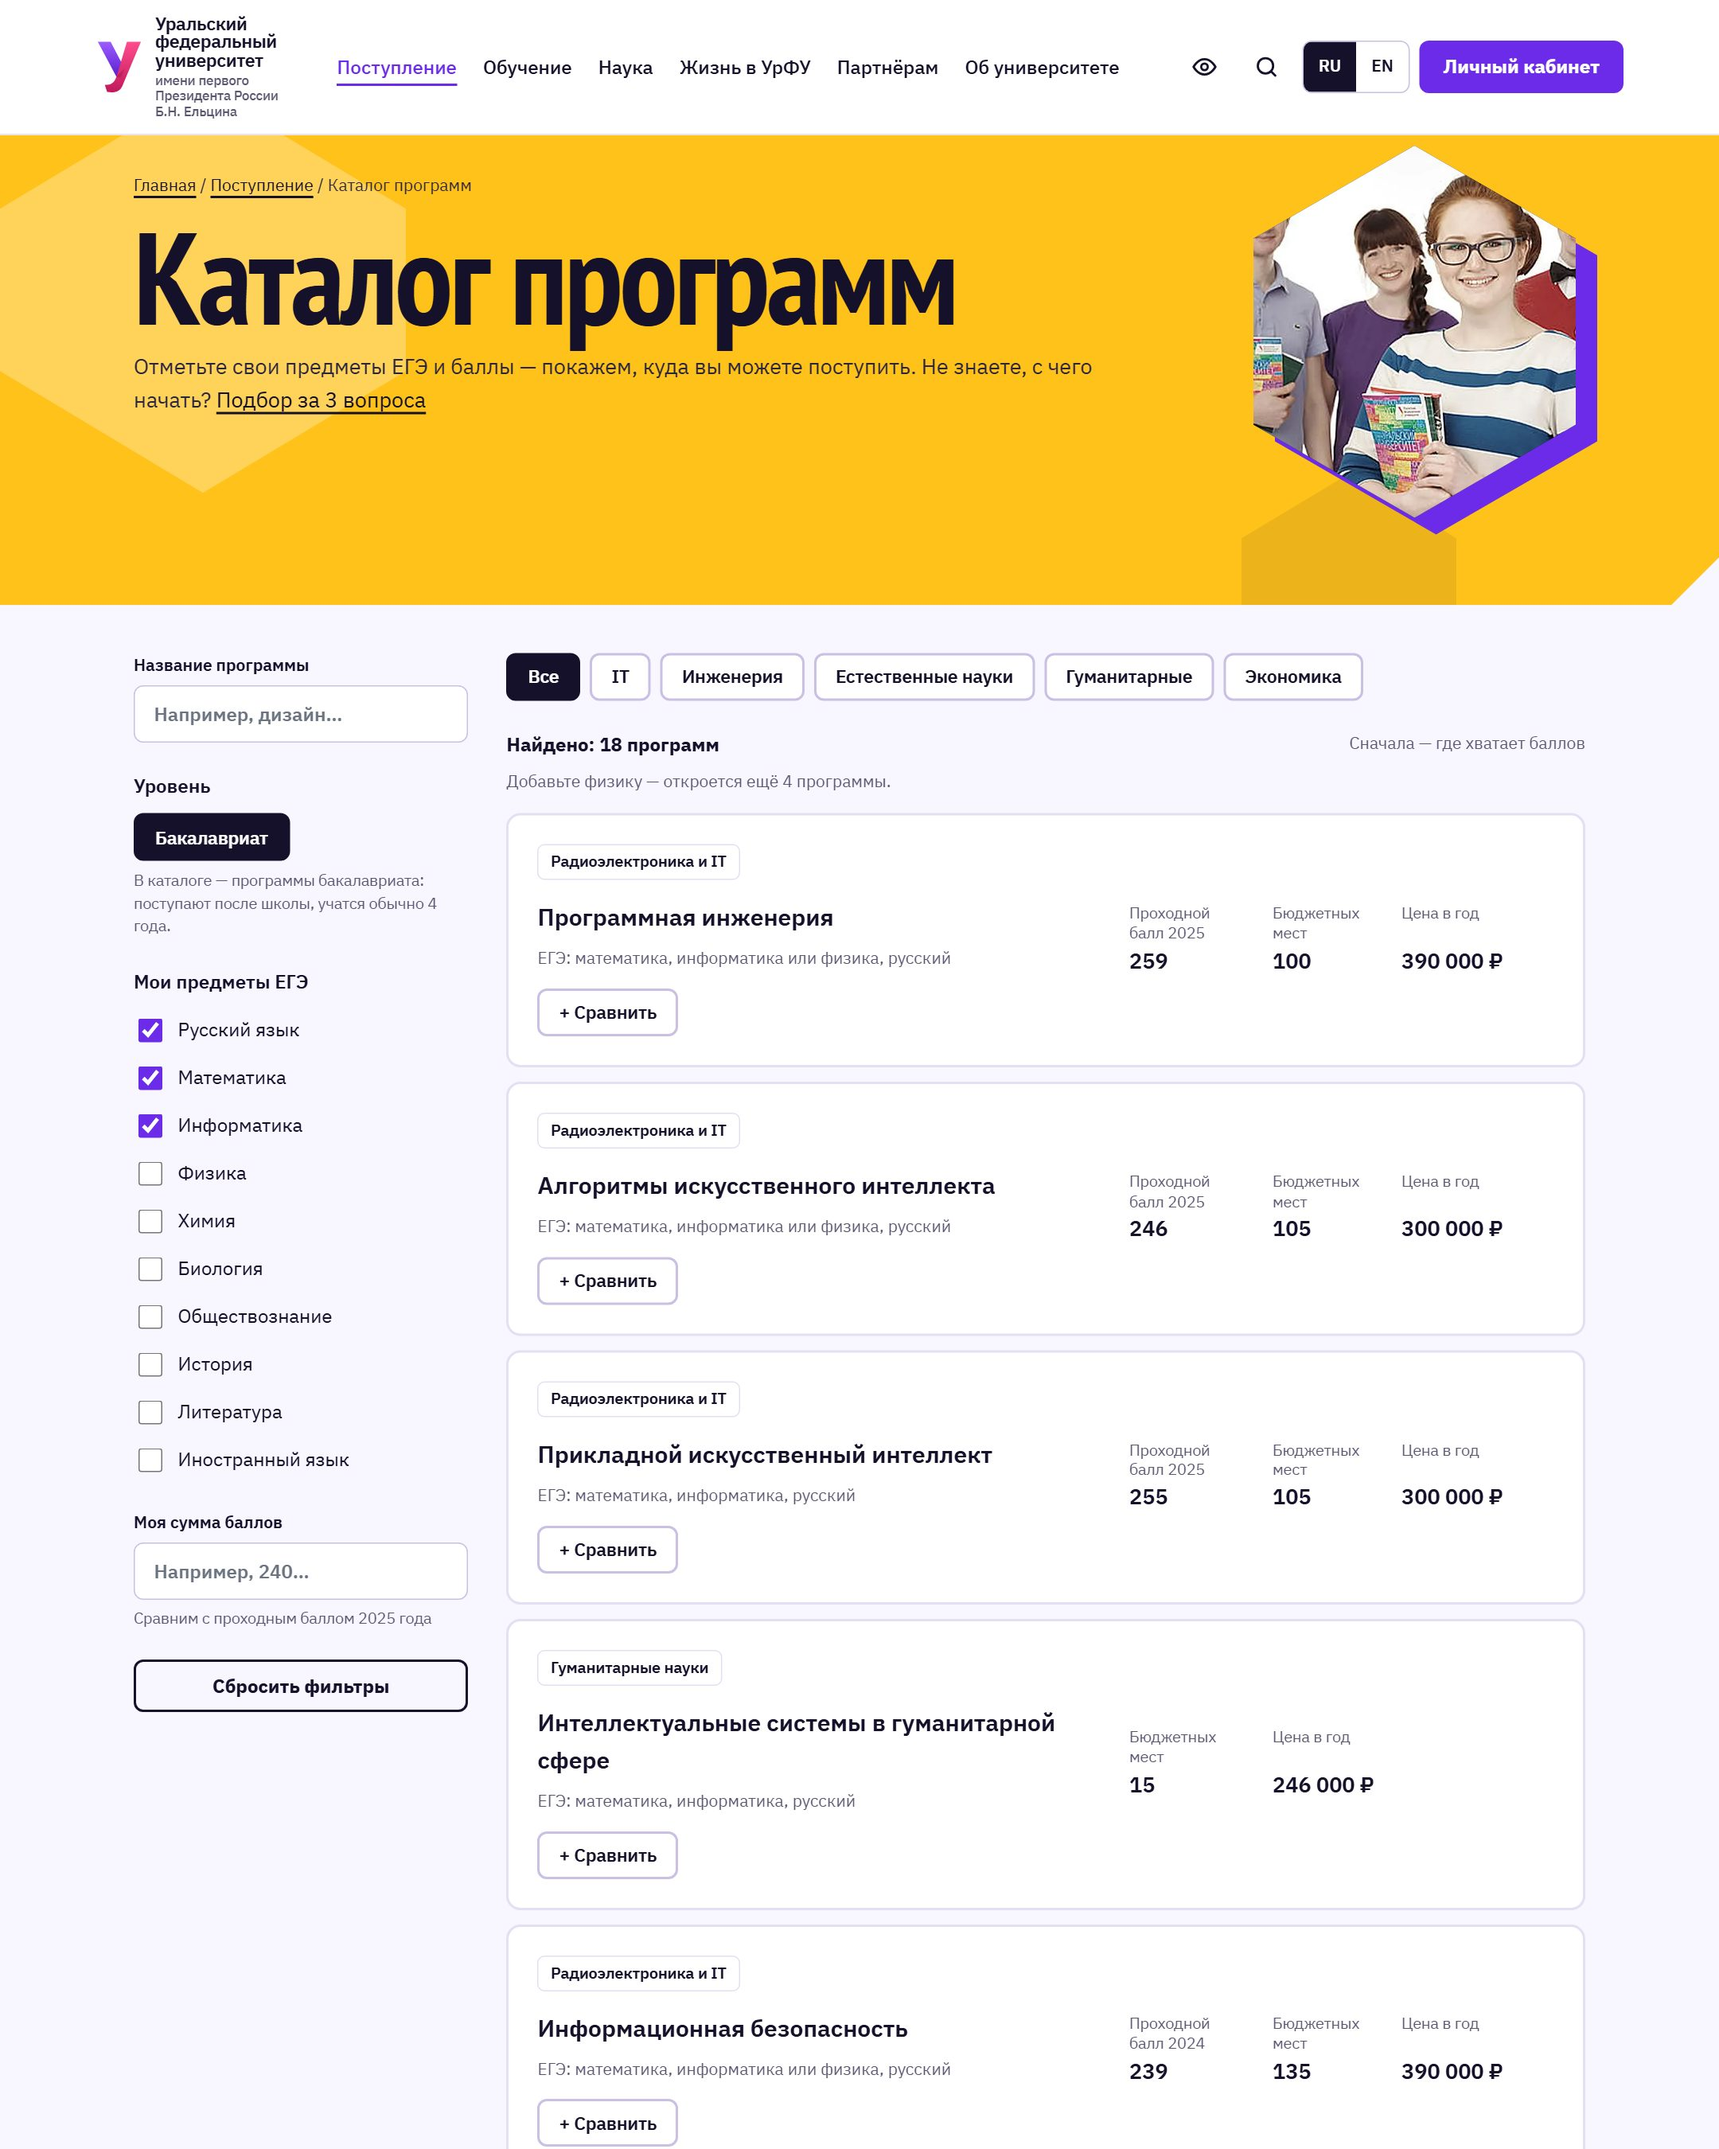
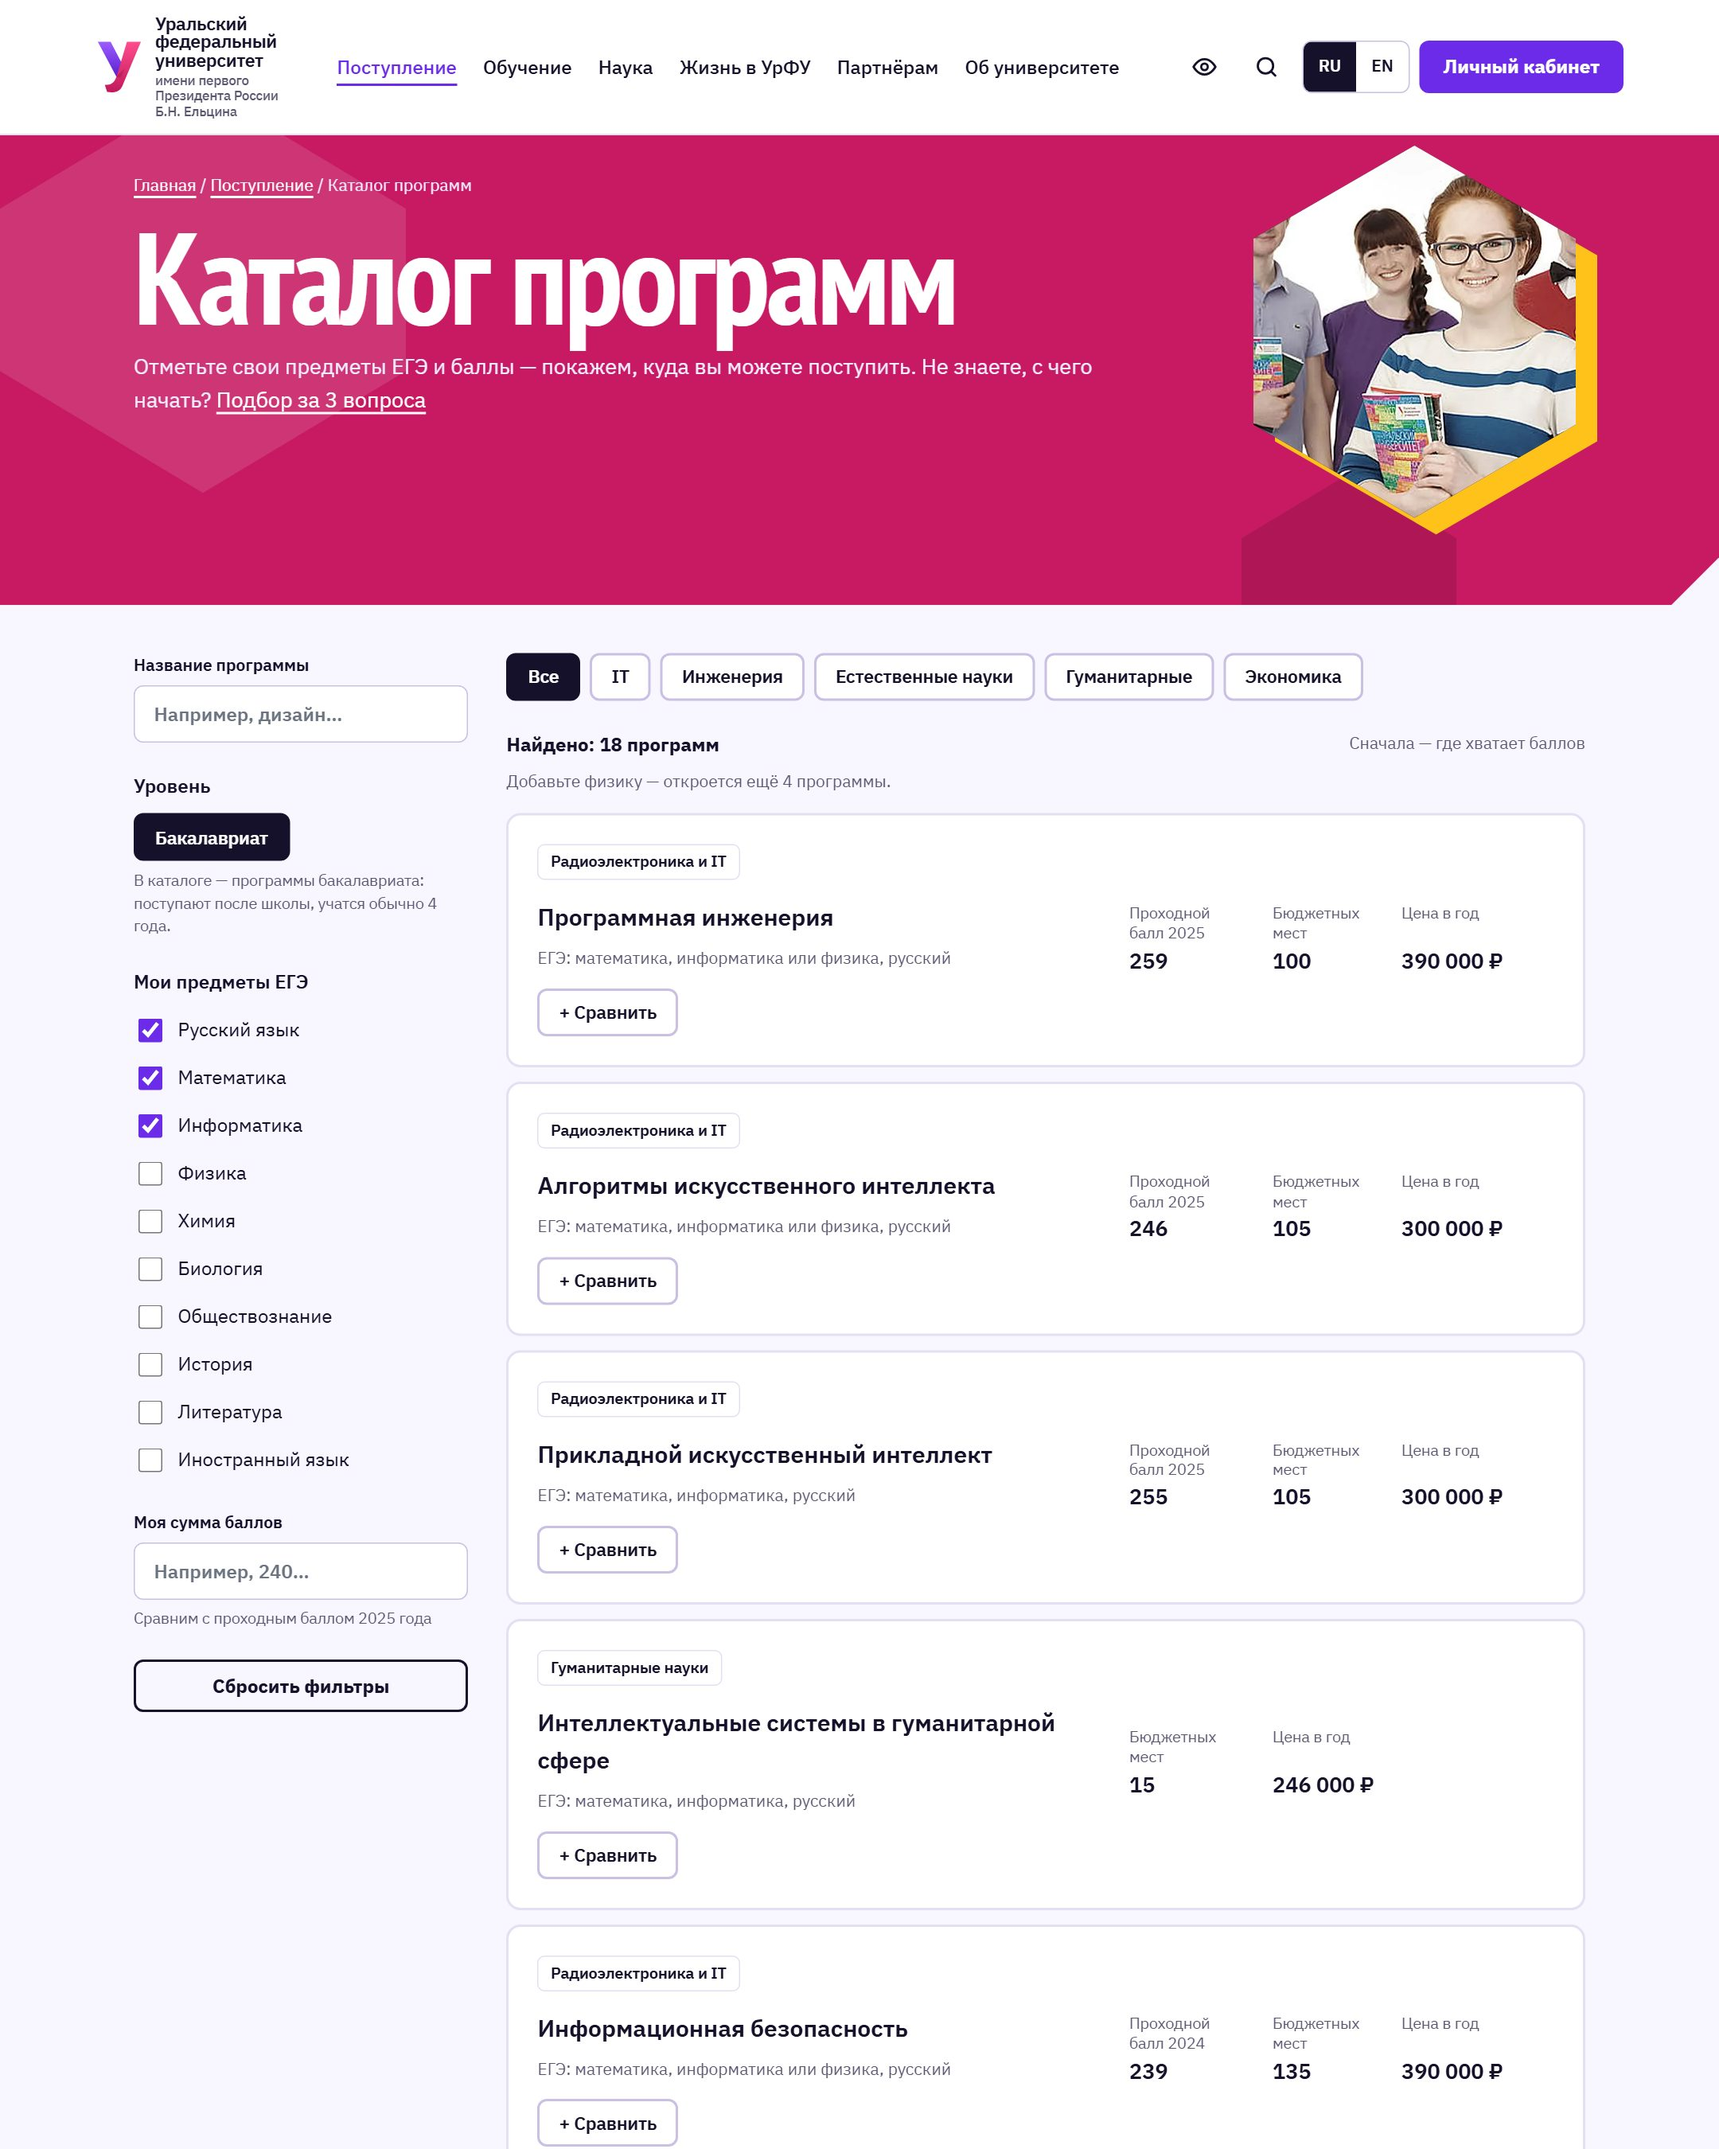
Шапки разделов: Поступление — родонит, Жизнь в УрФУ — аметист, текст белый
Вместо жёлтой и розовой шапок. Контраст: белый 5,6:1 и 6,7:1.
Версия для слабовидящих по-прежнему главнее. Снимки для PDF пересняты.

Changed region(s): [[0.0, 0.0622, 1.0, 0.28]]

diff --git a/site.css b/site.css
@@ -506,8 +506,19 @@ html[class*="vi-"] *{animation:none !important;transition:none !important}
 /* ═══ «Яркий Урал» на внутренних страницах ═══ */
 /* цветная шапка: у каждого раздела свой самоцвет; текст на всех — тёмный (контраст проверен) */
 .phead{--ph:#C9B2FF;background:var(--ph) !important;overflow:hidden;padding-bottom:64px}
-body:has(.hd .nav a[aria-current="page"][href^="Admission"]) .phead{--ph:var(--gold)}
-body:has(.hd .nav a[aria-current="page"][href^="Life"]) .phead{--ph:#FF8DB8}
+body:has(.hd .nav a[aria-current="page"][href^="Admission"]) .phead{--ph:var(--rhodonite-d)}
+body:has(.hd .nav a[aria-current="page"][href^="Life"]) .phead{--ph:var(--amethyst)}
+/* Шапки-самоцветы: на тёмном родоните и аметисте текст белый (контраст: белый 5,6:1 и 6,7:1, подписи #F1ECFF — 4,8:1 и 5,8:1).
+   Только без цветовых схем версии для слабовидящих — у них свои цвета. */
+html:not([class*="vi-c"]) body:has(.hd .nav a[aria-current="page"][href^="Admission"]) .phead h1,html:not([class*="vi-c"]) body:has(.hd .nav a[aria-current="page"][href^="Life"]) .phead h1{color:#FFFFFF !important}
+html:not([class*="vi-c"]) body:has(.hd .nav a[aria-current="page"][href^="Admission"]) .phead p,html:not([class*="vi-c"]) body:has(.hd .nav a[aria-current="page"][href^="Life"]) .phead p,html:not([class*="vi-c"]) body:has(.hd .nav a[aria-current="page"][href^="Admission"]) .phead .muted,html:not([class*="vi-c"]) body:has(.hd .nav a[aria-current="page"][href^="Life"]) .phead .muted,html:not([class*="vi-c"]) body:has(.hd .nav a[aria-current="page"][href^="Admission"]) .phead .crumbs,html:not([class*="vi-c"]) body:has(.hd .nav a[aria-current="page"][href^="Life"]) .phead .crumbs,html:not([class*="vi-c"]) body:has(.hd .nav a[aria-current="page"][href^="Admission"]) .phead .crumbs a,html:not([class*="vi-c"]) body:has(.hd .nav a[aria-current="page"][href^="Life"]) .phead .crumbs a{color:#F1ECFF !important}
+html:not([class*="vi-c"]) body:has(.hd .nav a[aria-current="page"][href^="Admission"]) .phead a:not(.btn):not(.btn2):not(.chip):not(.tag),html:not([class*="vi-c"]) body:has(.hd .nav a[aria-current="page"][href^="Life"]) .phead a:not(.btn):not(.btn2):not(.chip):not(.tag){color:#FFFFFF !important}
+html:not([class*="vi-c"]) body:has(.hd .nav a[aria-current="page"][href^="Admission"]) .phead :focus-visible,html:not([class*="vi-c"]) body:has(.hd .nav a[aria-current="page"][href^="Life"]) .phead :focus-visible{outline-color:#FFFFFF !important}
+html:not([class*="vi-c"]) body:has(.hd .nav a[aria-current="page"][href^="Admission"]) .phead::after,html:not([class*="vi-c"]) body:has(.hd .nav a[aria-current="page"][href^="Life"]) .phead::after{background:rgba(255,255,255,.12) !important}
+html:not([class*="vi-c"]) body:has(.hd .nav a[aria-current="page"][href^="Admission"]) .phead::before,html:not([class*="vi-c"]) body:has(.hd .nav a[aria-current="page"][href^="Life"]) .phead::before{background:rgba(0,0,0,.12) !important}
+html:not([class*="vi-c"]) body:has(.hd .nav a[aria-current="page"][href^="Admission"]) .phead .ph-hex::before,html:not([class*="vi-c"]) body:has(.hd .nav a[aria-current="page"][href^="Life"]) .phead .ph-hex::before{background:var(--gold) !important}
+html:not([class*="vi-c"]) body:has(.hd .nav a[aria-current="page"][href^="Admission"]) .phead .g4 .muted,html:not([class*="vi-c"]) body:has(.hd .nav a[aria-current="page"][href^="Life"]) .phead .g4 .muted{color:var(--muted) !important}
+html:not([class*="vi-c"]) body:has(.hd .nav a[aria-current="page"][href^="Life"]) .phead .btn{background:var(--gold) !important;color:var(--ink) !important;border-color:var(--gold) !important}
 body:has(.hd .nav a[aria-current="page"][href^="Contacts"]) .phead{--ph:#5FE3BE}
 .phead::after{content:"";display:block !important;position:absolute;right:-60px;top:-40px;width:340px;height:340px;background:rgba(255,255,255,.28);
   clip-path:polygon(50% 0,100% 30%,100% 70%,50% 100%,0 70%,0 30%);pointer-events:none}
